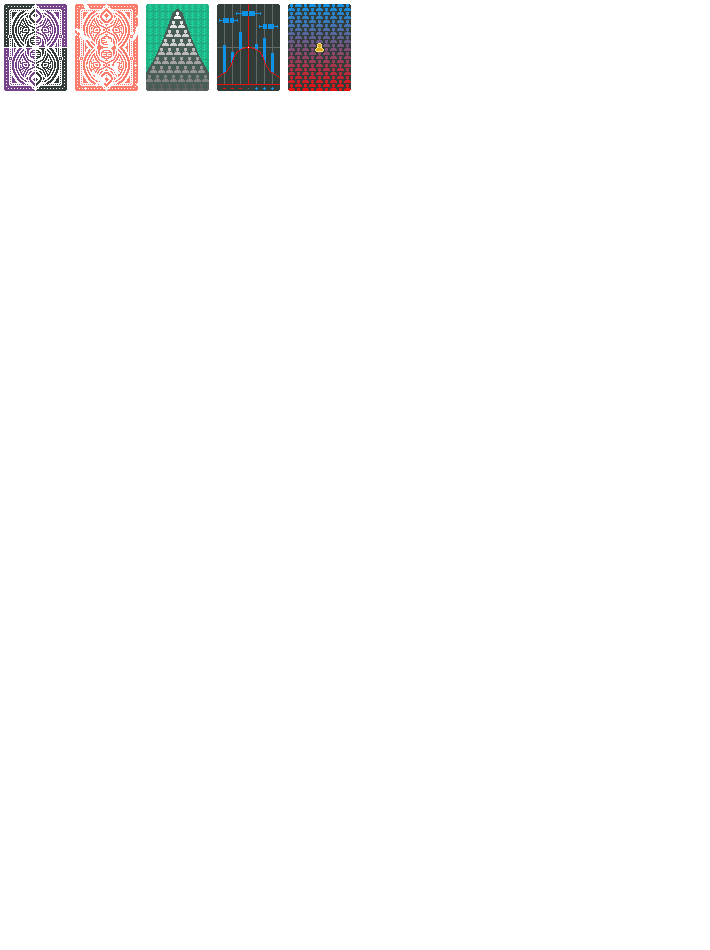
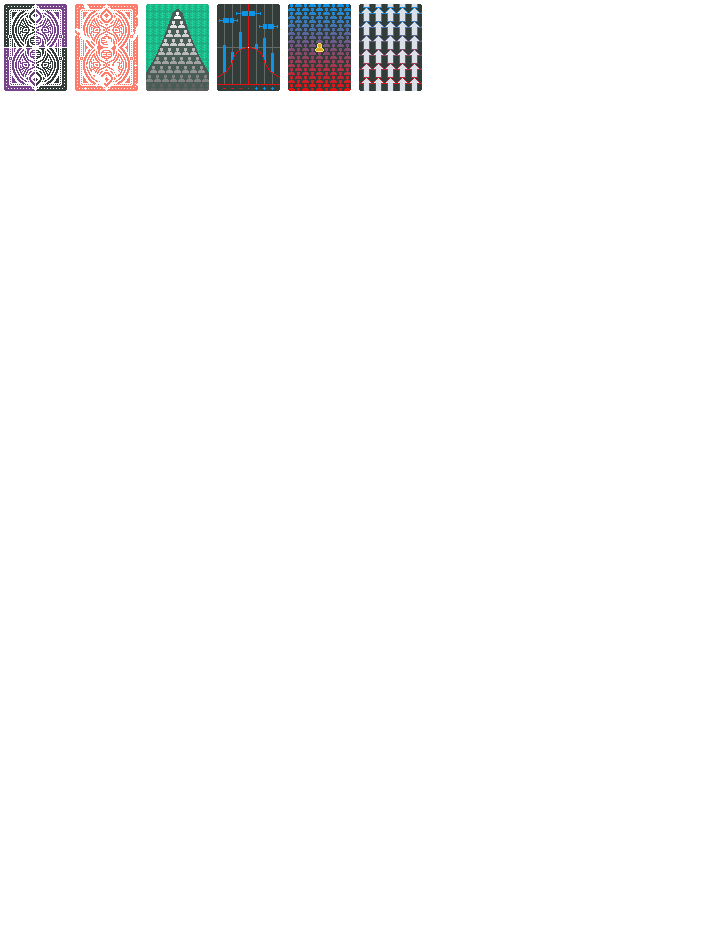
Add Gravity Deck

Changed region(s): [[0.4958, 0.0, 0.6197, 0.1221]]

diff --git a/web/addjokers.js b/web/addjokers.js
@@ -556,6 +556,14 @@ let decks = [
     image_url: "img/b/vip.png",
     rarity: "Deck"
   },
+  {
+    name: "Gravity Deck",
+    text: [
+      "Start run with a copy of {C:purple,E:1,T:c_black_hole}Black Hole{}"
+    ],
+    image_url: "img/b/gravity.png",
+    rarity: "Deck"
+  },
 ]
 
 let stickers = [
